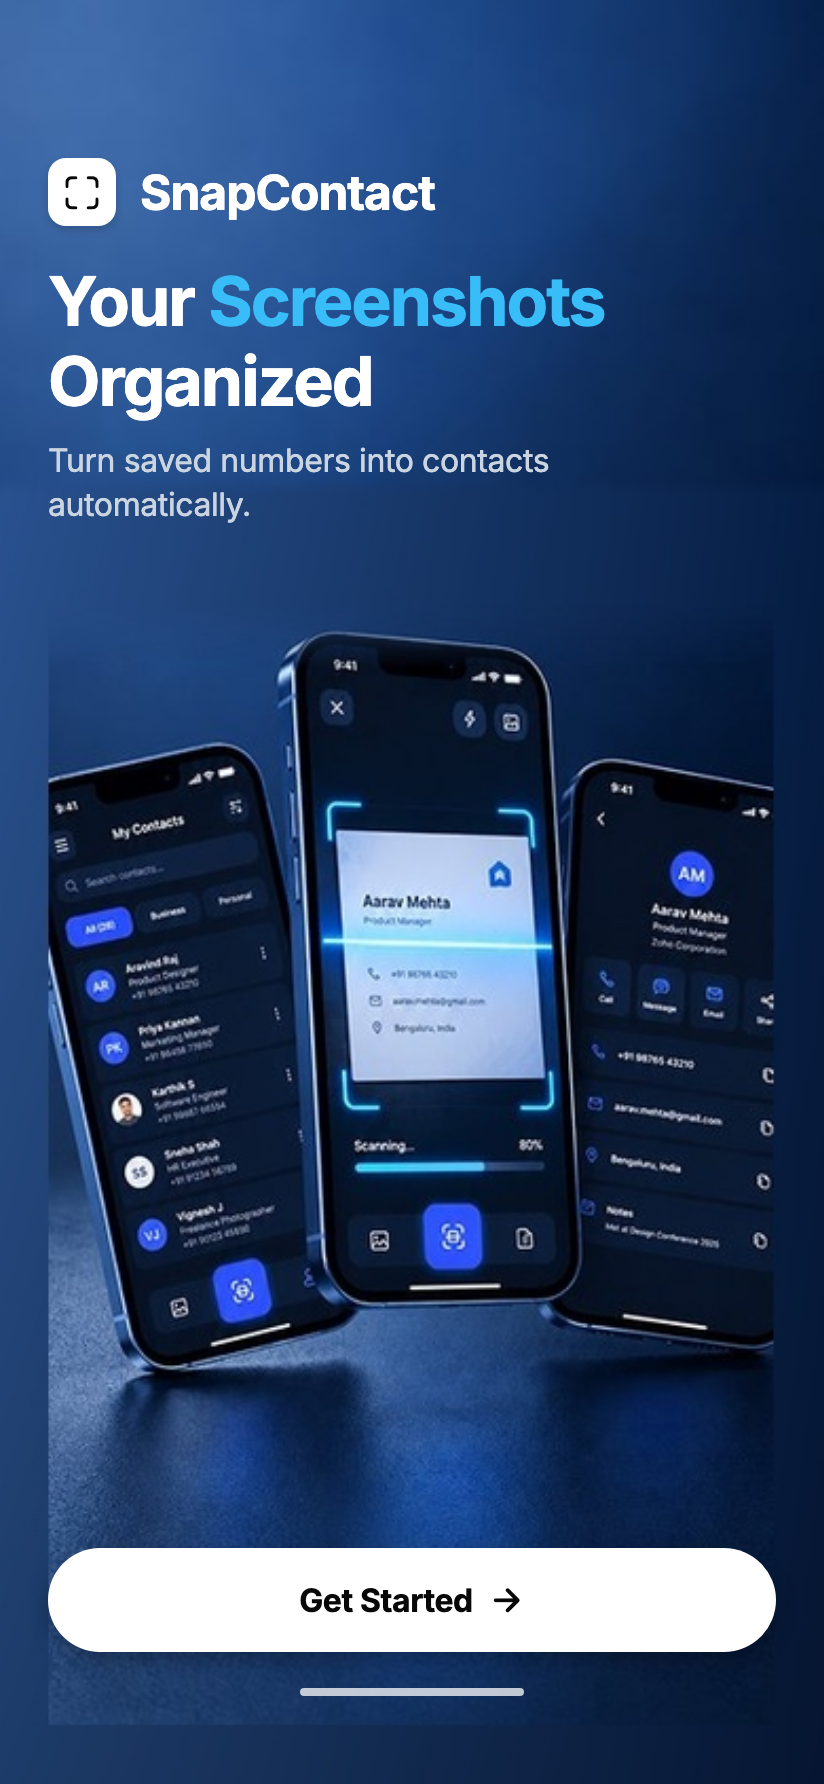
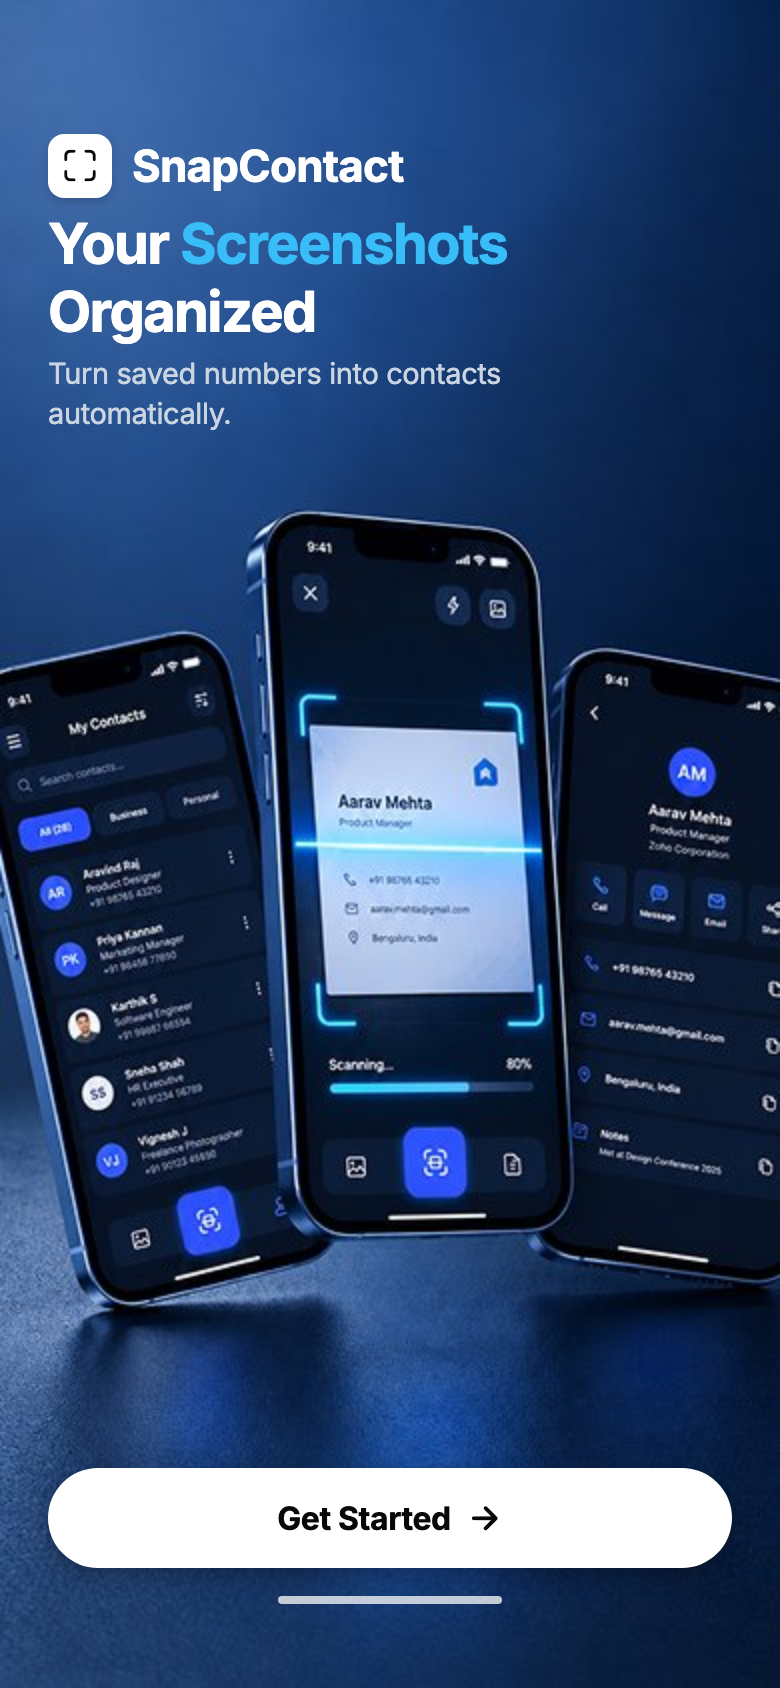
fix(ui): apply responsive contain scaling to onboarding background image across all mobile viewports

Changed region(s): [[0.0, 0.0616, 1.0, 0.9242], [0.3385, 0.8626, 0.6462, 0.9858], [0.8923, 0.8626, 0.9538, 0.8934]]

diff --git a/artifacts/snapcontact/components/Onboarding.tsx b/artifacts/snapcontact/components/Onboarding.tsx
@@ -1,8 +1,8 @@
 import React from 'react';
-import { View, Text, Image, useWindowDimensions } from 'react-native';
+import { View, Text, Image, StyleSheet, useWindowDimensions } from 'react-native';
 import { LinearGradient } from 'expo-linear-gradient';
 import { Ionicons } from '@expo/vector-icons';
-import Animated, { FadeInDown, FadeIn } from 'react-native-reanimated';
+import Animated, { FadeInDown } from 'react-native-reanimated';
 import { F, PressScale, tap, useInsets } from './ui';
 
 export function Onboarding({ onDone }: { onDone: () => void }) {
@@ -14,8 +14,26 @@ export function Onboarding({ onDone }: { onDone: () => void }) {
   const contentMaxWidth = Math.min(windowWidth, 480);
 
   return (
-    <View style={{ flex: 1, backgroundColor: '#091838' }} testID="onboarding">
-      {/* High-Resolution Master Background Asset with 3D Phones & Ambient Lighting */}
+    <View
+      style={{
+        flex: 1,
+        width: '100%',
+        height: '100%',
+        position: 'relative',
+        overflow: 'hidden',
+        backgroundColor: '#091838',
+      }}
+      testID="onboarding"
+    >
+      {/* 1. Underlying Seamless Royal Blue Gradient */}
+      <LinearGradient
+        colors={['#1F4A89', '#143368', '#0D2146', '#081634']}
+        start={{ x: 0.1, y: 0 }}
+        end={{ x: 0.9, y: 1 }}
+        style={StyleSheet.absoluteFill}
+      />
+
+      {/* 2. Responsive Background Image: Contains full aspect ratio composition without cropping */}
       <Image
         source={require('@/assets/images/onboarding_bg.jpg')}
         style={{
@@ -27,161 +45,156 @@ export function Onboarding({ onDone }: { onDone: () => void }) {
           width: '100%',
           height: '100%',
         }}
-        resizeMode="cover"
+        resizeMode="contain"
         accessibilityLabel="SnapContact preview showing contact extraction, live scanner, and contact profile"
       />
 
-      <View
+      {/* 3. Header & Typography Section: Positioned relative near the top with safe area handling */}
+      <Animated.View
+        entering={FadeInDown.duration(450)}
         style={{
-          flex: 1,
+          position: 'relative',
+          zIndex: 2,
+          paddingTop: Math.max(i.top, 40),
+          paddingHorizontal: 24,
+          maxWidth: contentMaxWidth,
           width: '100%',
-          paddingTop: Math.max(i.top, 44) + (isCompact ? 6 : 12),
-          paddingBottom: Math.max(i.bottom, 20) + 10,
-          justifyContent: 'space-between',
+          alignSelf: 'center',
         }}
       >
-        {/* Header & Typography Section */}
-        <Animated.View
-          entering={FadeInDown.duration(450)}
+        {/* App Logo & Title */}
+        <View
           style={{
-            paddingHorizontal: 24,
-            maxWidth: contentMaxWidth,
-            width: '100%',
-            alignSelf: 'center',
+            flexDirection: 'row',
+            alignItems: 'center',
+            gap: 10,
+            marginBottom: 6,
           }}
         >
-          {/* App Logo & Title */}
           <View
             style={{
-              flexDirection: 'row',
+              width: 32,
+              height: 32,
+              borderRadius: 8,
+              backgroundColor: '#FFFFFF',
               alignItems: 'center',
-              gap: 12,
-              marginBottom: isCompact ? 12 : 18,
+              justifyContent: 'center',
+              shadowColor: '#000',
+              shadowOffset: { width: 0, height: 2 },
+              shadowOpacity: 0.15,
+              shadowRadius: 4,
+              elevation: 2,
             }}
           >
-            <View
-              style={{
-                width: 34,
-                height: 34,
-                borderRadius: 9,
-                backgroundColor: '#FFFFFF',
-                alignItems: 'center',
-                justifyContent: 'center',
-                shadowColor: '#000',
-                shadowOffset: { width: 0, height: 2 },
-                shadowOpacity: 0.15,
-                shadowRadius: 4,
-                elevation: 2,
-              }}
-            >
-              <Ionicons name="scan-outline" size={20} color="#080809" />
-            </View>
-            <Text
-              style={{
-                color: '#FFFFFF',
-                fontFamily: F.b,
-                fontSize: 24,
-                letterSpacing: -0.5,
-              }}
-            >
-              SnapContact
-            </Text>
+            <Ionicons name="scan-outline" size={19} color="#080809" />
           </View>
-
-          {/* Main Headline with Sky Blue Accent */}
           <Text
-            accessibilityRole="header"
             style={{
+              color: '#FFFFFF',
               fontFamily: F.b,
-              fontSize: isCompact ? 28 : 34,
-              lineHeight: isCompact ? 34 : 40,
-              letterSpacing: -1,
-              marginBottom: 8,
+              fontSize: 22,
+              letterSpacing: -0.4,
             }}
           >
-            <Text style={{ color: '#FFFFFF' }}>Your </Text>
-            <Text style={{ color: '#38BDF8' }}>Screenshots{'\n'}</Text>
-            <Text style={{ color: '#FFFFFF' }}>Organized</Text>
+            SnapContact
           </Text>
+        </View>
 
-          {/* Supporting Subtitle */}
+        {/* Main Headline with Sky Blue Accent */}
+        <Text
+          accessibilityRole="header"
+          style={{
+            fontFamily: F.b,
+            fontSize: isCompact ? 25 : 28,
+            lineHeight: isCompact ? 30 : 34,
+            letterSpacing: -0.8,
+            marginBottom: 4,
+          }}
+        >
+          <Text style={{ color: '#FFFFFF' }}>Your </Text>
+          <Text style={{ color: '#38BDF8' }}>Screenshots{'\n'}</Text>
+          <Text style={{ color: '#FFFFFF' }}>Organized</Text>
+        </Text>
+
+        {/* Supporting Subtitle */}
+        <Text
+          style={{
+            color: '#CBD5E1',
+            fontFamily: F.r,
+            fontSize: isCompact ? 13.5 : 14.5,
+            lineHeight: isCompact ? 18 : 20,
+            letterSpacing: -0.2,
+          }}
+        >
+          Turn saved numbers into contacts{'\n'}automatically.
+        </Text>
+      </Animated.View>
+
+      {/* 4. Footer Section: Anchored near the bottom with safe area insets */}
+      <Animated.View
+        entering={FadeInDown.delay(350).duration(450)}
+        style={{
+          position: 'absolute',
+          bottom: Math.max(i.bottom, 16) + (isCompact ? 4 : 8),
+          left: 0,
+          right: 0,
+          zIndex: 3,
+          paddingHorizontal: 24,
+          maxWidth: contentMaxWidth,
+          width: '100%',
+          alignSelf: 'center',
+        }}
+      >
+        <PressScale
+          testID="get-started"
+          accessibilityRole="button"
+          accessibilityLabel="Get Started"
+          onPress={() => {
+            tap('medium');
+            onDone();
+          }}
+          style={{
+            backgroundColor: '#FFFFFF',
+            minHeight: 50,
+            borderRadius: 999,
+            flexDirection: 'row',
+            alignItems: 'center',
+            justifyContent: 'center',
+            gap: 8,
+            paddingHorizontal: 28,
+            shadowColor: '#000',
+            shadowOffset: { width: 0, height: 4 },
+            shadowOpacity: 0.25,
+            shadowRadius: 10,
+            elevation: 4,
+          }}
+        >
           <Text
             style={{
-              color: '#CBD5E1',
-              fontFamily: F.r,
+              color: '#080809',
+              fontFamily: F.b,
               fontSize: 16,
-              lineHeight: 22,
               letterSpacing: -0.2,
             }}
           >
-            Turn saved numbers into contacts{'\n'}automatically.
+            Get Started
           </Text>
-        </Animated.View>
+          <Ionicons name="arrow-forward" size={18} color="#080809" />
+        </PressScale>
 
-        {/* Flexible middle space allowing background phones to display unobstructed */}
-        <View style={{ flex: 1 }} />
-
-        {/* Bottom CTA Button & Home Indicator */}
-        <Animated.View
-          entering={FadeInDown.delay(350).duration(450)}
+        {/* Subtle Home Indicator Bar */}
+        <View
           style={{
-            paddingHorizontal: 24,
-            maxWidth: contentMaxWidth,
-            width: '100%',
+            width: 112,
+            height: 4,
+            borderRadius: 2,
+            backgroundColor: '#FFFFFF',
+            opacity: 0.75,
             alignSelf: 'center',
+            marginTop: 14,
           }}
-        >
-          <PressScale
-            testID="get-started"
-            accessibilityRole="button"
-            accessibilityLabel="Get Started"
-            onPress={() => {
-              tap('medium');
-              onDone();
-            }}
-            style={{
-              backgroundColor: '#FFFFFF',
-              minHeight: 52,
-              borderRadius: 999,
-              flexDirection: 'row',
-              alignItems: 'center',
-              justifyContent: 'center',
-              gap: 8,
-              paddingHorizontal: 28,
-              shadowColor: '#000',
-              shadowOffset: { width: 0, height: 4 },
-              shadowOpacity: 0.25,
-              shadowRadius: 10,
-              elevation: 4,
-            }}
-          >
-            <Text
-              style={{
-                color: '#080809',
-                fontFamily: F.b,
-                fontSize: 16,
-                letterSpacing: -0.2,
-              }}
-            >
-              Get Started
-            </Text>
-            <Ionicons name="arrow-forward" size={18} color="#080809" />
-          </PressScale>
-
-          {/* Subtle Home Indicator Bar */}
-          <View
-            style={{
-              width: 112,
-              height: 4,
-              borderRadius: 2,
-              backgroundColor: '#FFFFFF',
-              opacity: 0.75,
-              alignSelf: 'center',
-              marginTop: 18,
-            }}
-          />
-        </Animated.View>
-      </View>
+        />
+      </Animated.View>
     </View>
   );
 }
